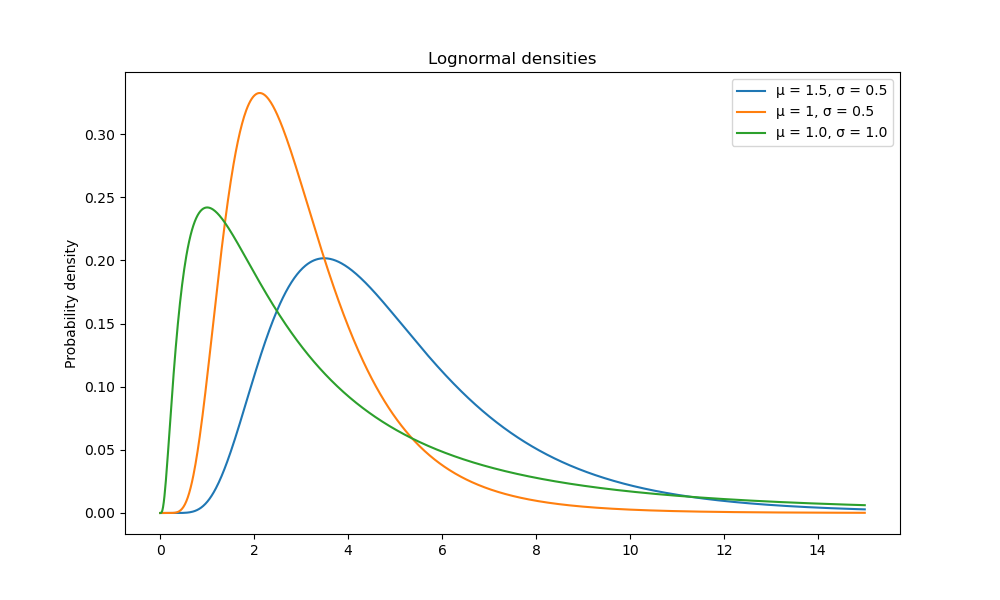
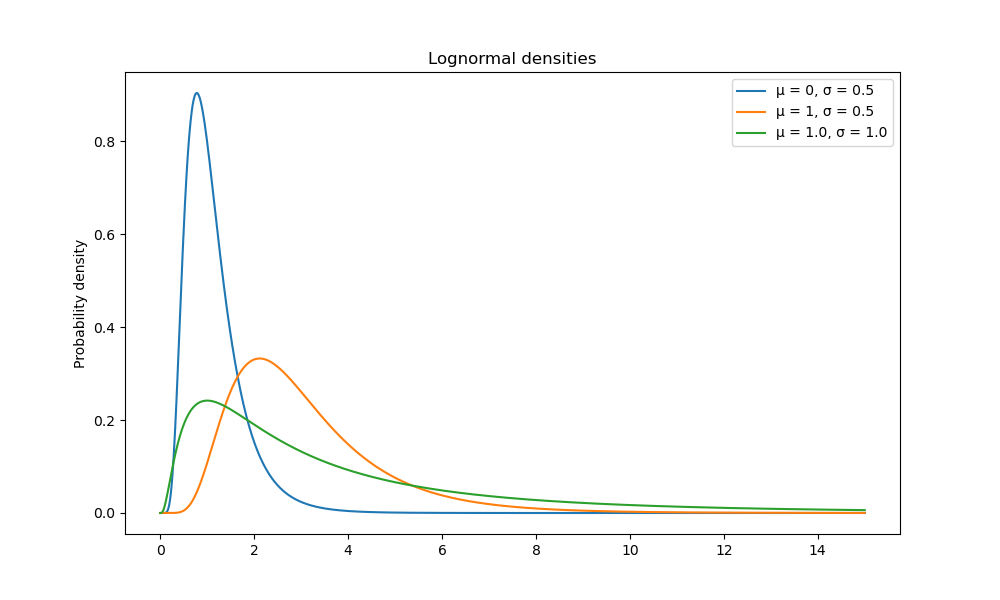
final?

diff --git a/Projects/Scheduling Problem with Random Arrivals/plots.py b/Projects/Scheduling Problem with Random Arrivals/plots.py
@@ -166,7 +166,7 @@ if __name__ == "__main__":
 
 
     plot_lognormal_distributions(
-        mu_sigma_pairs=[(1.5, 0.5), (1, 0.5), (1.0, 1.0)],
+        mu_sigma_pairs=[(0, 0.5), (1, 0.5), (1.0, 1.0)],
         x_range=(0, 15),
         num_points=1000
     )
